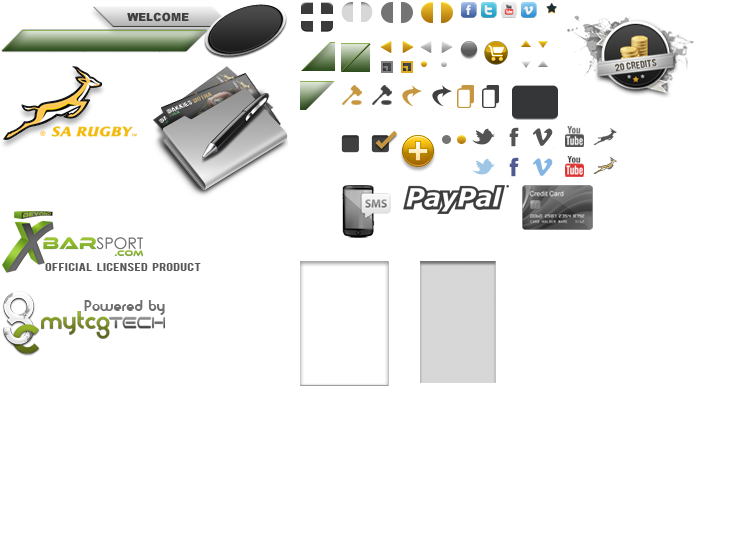
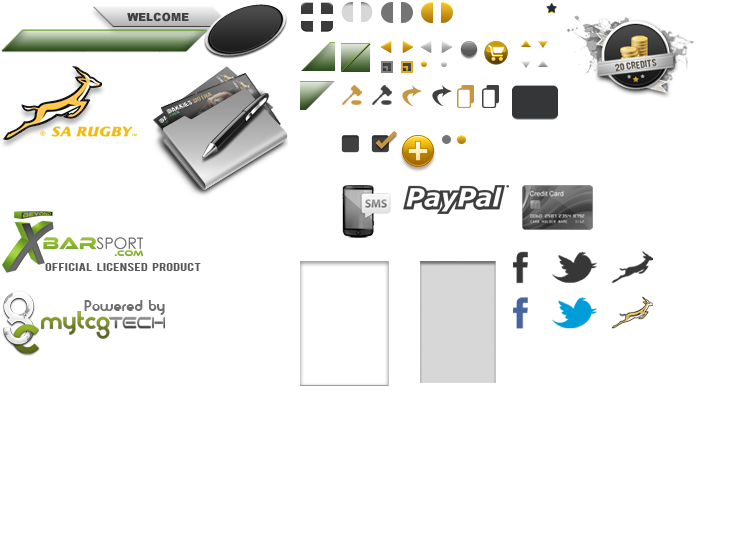
social nav

diff --git a/website_saru/ss.css b/website_saru/ss.css
@@ -502,7 +502,7 @@ body{
 	padding-top:8px;
 	position:relative;
 	width:100%;
-	height:125px;
+	height:100px;
 	margin-bottom:5px;
 }
 .bodyfooter_container{
@@ -513,39 +513,40 @@ body{
 }
 .bodyfooter_social{
 	color:#fff;
-	float:right;
 	position:relative;
+	left:325px;
 	margin:auto;
+	top:17px;
 }
 .social_fb,.social_twitter,.social_youtube,.social_vimeo,.social_web{
 	float: left;
-    height: 25px;
+    height: 40px;
     position: relative;
-    width: 30px;
+    width: 50px;
     cursor:pointer;
     margin-right:5px;
     text-decoration:none;
 }
 .social_fb{
-	background:url(_site/all.png) -500px -126px no-repeat;
+	background:url(_site/all.png) -500px -247px no-repeat;
 }
 .social_twitter{
-	background:url(_site/all.png) -470px -126px no-repeat;
+	background:url(_site/all.png) -555px -247px no-repeat;
 }
 .social_youtube{
-	background:url(_site/all.png) -560px -126px no-repeat;
+	background:url(_site/all.png) -560px -247px no-repeat;
 }
 .social_vimeo{
-	background:url(_site/all.png) -530px -126px no-repeat;
+	background:url(_site/all.png) -530px -247px no-repeat;
 }
 .social_web{
-	background:url(_site/all.png) -590px -126px no-repeat;
+	background:url(_site/all.png) -610px -247px no-repeat;
 }
 .social_fb:hover{
-	background:url(_site/all.png) -500px -156px no-repeat;
+	background:url(_site/all.png) -500px -292px no-repeat;
 }
 .social_twitter:hover{
-	background:url(_site/all.png) -470px -156px no-repeat;
+	background:url(_site/all.png) -555px -292px no-repeat;
 }
 .social_youtube:hover{
 	background:url(_site/all.png) -560px -156px no-repeat;
@@ -554,23 +555,21 @@ body{
 	background:url(_site/all.png) -530px -156px no-repeat;
 }
 .social_web:hover{
-	background:url(_site/all.png) -590px -155px no-repeat;
+	background:url(_site/all.png) -610px -292px no-repeat;
 }
 .xbarlogo{
 	background:url(_site/all.png) 0px -210px no-repeat;
 	width:202px;
 	height:70px;
 	position: absolute;
-	left:10px;
-	top:45px;
 }
 .mytcglogo{
-	right:10px;
-	top:45px;
 	background:url(_site/all.png) 0px -290px no-repeat;
 	width:170px;
+	right:0px;
 	height:70px;
 	position: absolute;
+	top:2px;
 }
 #bodyheader{
 	z-index:2;

diff --git a/website_saru/work.js b/website_saru/work.js
@@ -2524,11 +2524,11 @@ WORK_Menu.prototype.action=function(sAction){
 	            			ZA.maximizeWindowA(4);
 						break;
 						case "5":
-							ZA.showLeaderboard();
+							$("#component_10").show();
+		                     ZA.maximizeWindowA(10);
 						break;
 						case "6":
-		                     $("#component_10").show();
-		                     ZA.maximizeWindowA(10);
+		                    ZA.showLeaderboard();
 						break;
 						case "7":
 							ZA.showNotifications();
@@ -2619,7 +2619,7 @@ WORK_Menu.prototype.createTop=function(){
 	// logged in
 	else{
 		//ZA.sMenuItemsTop = "Logout|Profile|My Deck|Album|Auction|Buy Cards|Leaderboard|Credits|Notifications";
-		ZA.sMenuItemsTop = "Logout|Profile|Auction|Shop|Album";
+		ZA.sMenuItemsTop = "Logout|Profile|Auction|Shop|Album|Credits";
 	}
 	
 	var divMenu=ZA.createDiv(divHeader,"menutop","menutop");
@@ -2653,7 +2653,7 @@ WORK_Menu.prototype.createTop=function(){
 				divItem.innerHTML=sDesc;
 			}
 		}else{
-			if(iCount!=4){
+			if(iCount!=5){
 				var iLength=sDesc.length;
 				var divItem=ZA.createDiv(divMenu,"menutopitem");
 				divItem.onclick=ZM.action("top_"+iCount);
